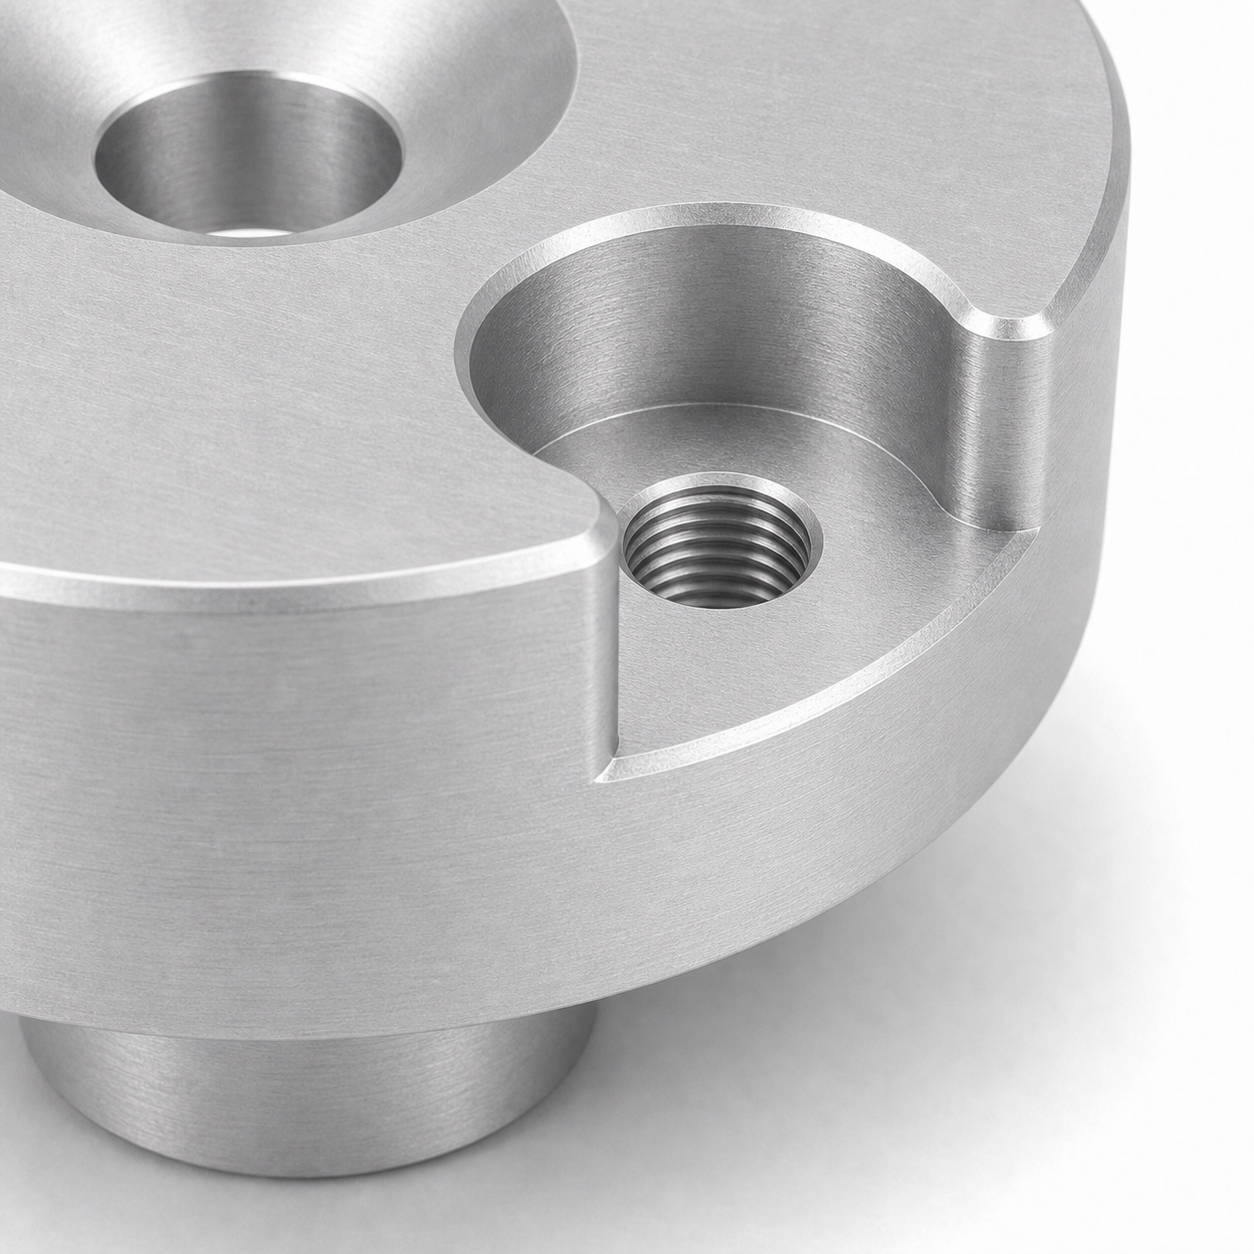
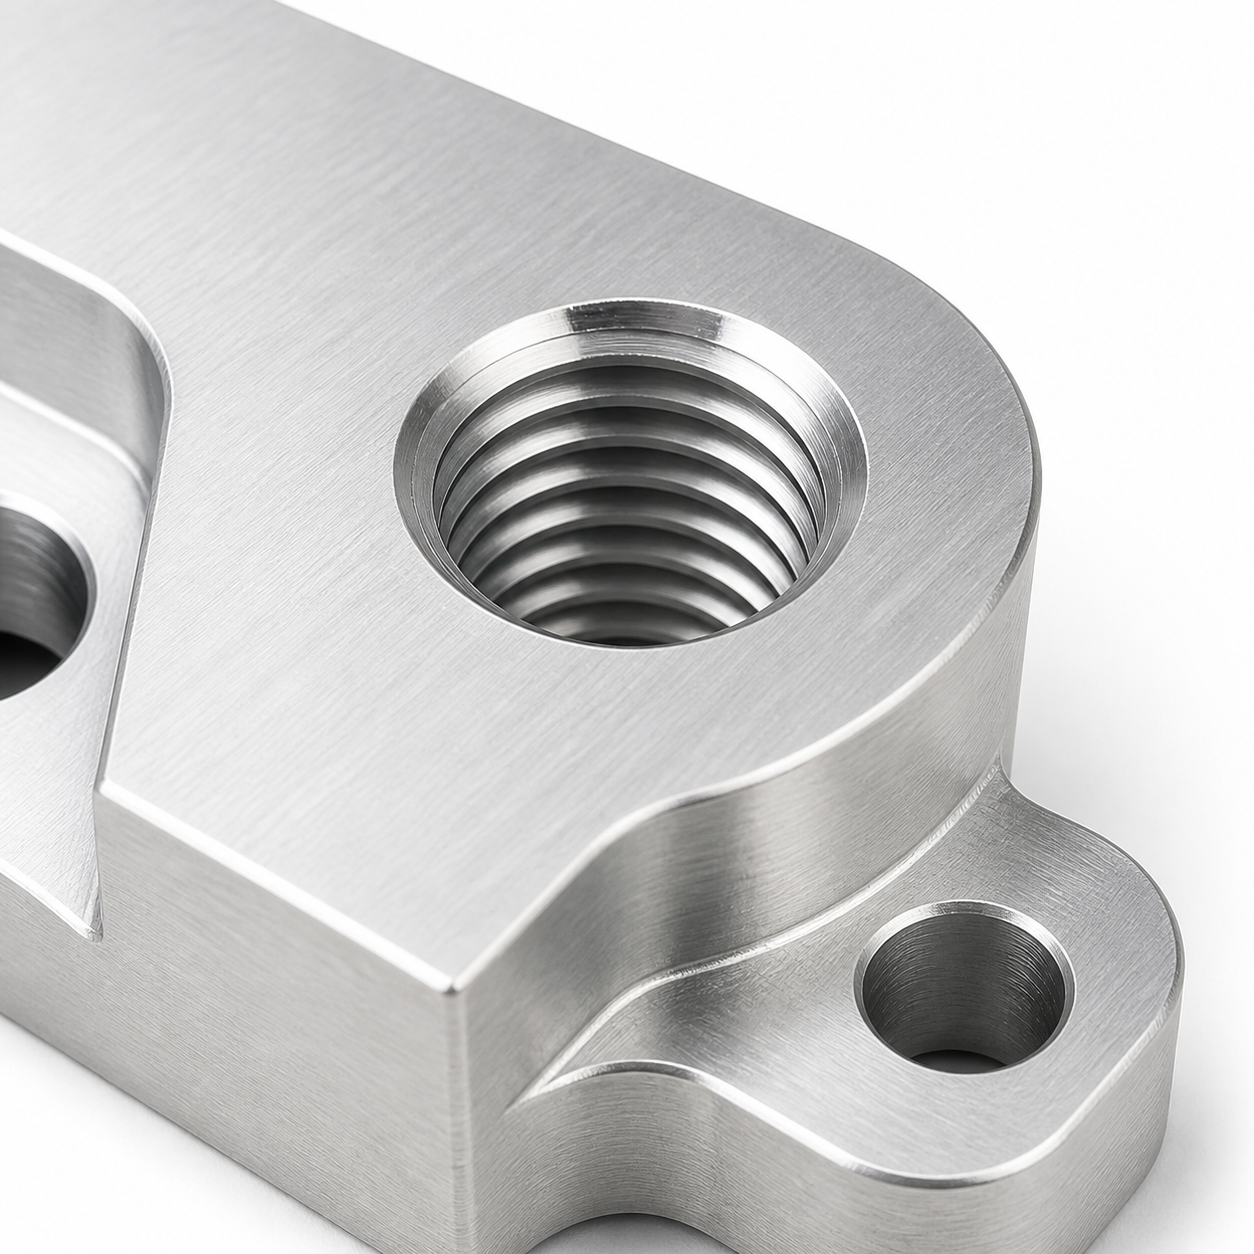
Fix configurator image previews and feature assets

diff --git a/Maliev.Intranet.Tests/Client/Components/PartConfigSidebarRenderTests.cs b/Maliev.Intranet.Tests/Client/Components/PartConfigSidebarRenderTests.cs
@@ -242,6 +242,7 @@ public sealed class PartConfigSidebarRenderTests : BunitContext, IAsyncLifetime
         Assert.Contains(".pcs-option-image-frame:hover .pcs-image-preview-popout", sidebarSource, StringComparison.Ordinal);
         Assert.Contains(".pcs-option-image-frame:focus-within .pcs-image-preview-popout", sidebarSource, StringComparison.Ordinal);
         Assert.Contains("width: min(220px, 64vw);", sidebarSource, StringComparison.Ordinal);
+        Assert.Contains("overflow: visible;", sidebarSource, StringComparison.Ordinal);
     }
 
     [Fact]
@@ -256,8 +257,43 @@ public sealed class PartConfigSidebarRenderTests : BunitContext, IAsyncLifetime
 
         Assert.Contains("grid-template-columns: 66px minmax(0, 1fr) 18px;", source, StringComparison.Ordinal);
         Assert.Contains(".pcs-mat-swatch,\n            .pcs-fin-swatch,\n            .pcs-choice-swatch,\n            .pcs-color-chip {\n                width: 58px;\n                height: 58px;", source, StringComparison.Ordinal);
-        Assert.Contains("overflow: hidden;", source, StringComparison.Ordinal);
+        Assert.Contains("overflow: visible;", source, StringComparison.Ordinal);
         Assert.Contains("object-fit: contain;", source, StringComparison.Ordinal);
+    }
+
+    [Fact]
+    public void SurfaceFinishCards_ReservePriceAndCheckmarkColumns()
+    {
+        var source = ReadRepoFile(
+                "Maliev.Intranet.Client",
+                "Components",
+                "Project",
+                "PartConfigSidebar.razor")
+            .ReplaceLineEndings("\n");
+
+        Assert.Contains(".pcs-fin-card {\n                grid-template-columns: 66px minmax(0, 1fr) max-content 18px;", source, StringComparison.Ordinal);
+        Assert.Contains(".pcs-fin-price {\n                grid-column: 3;", source, StringComparison.Ordinal);
+        Assert.Contains("white-space: nowrap;", source, StringComparison.Ordinal);
+        Assert.Contains(".pcs-fin-card .pcs-card-check {\n                grid-column: 4;", source, StringComparison.Ordinal);
+    }
+
+    [Fact]
+    public void ThreadInsertFeatureImage_IsDistinctFromGenericSteelInsertImage()
+    {
+        var threadInsertPath = FindRepoFile(
+            "Maliev.Intranet.Client",
+            "wwwroot",
+            "images",
+            "materials",
+            "feature-thread-inserts-part.png");
+        var genericInsertPath = FindRepoFile(
+            "Maliev.Intranet.Client",
+            "wwwroot",
+            "images",
+            "materials",
+            "feature-steel-inserts-part.png");
+
+        Assert.NotEqual(File.ReadAllBytes(genericInsertPath), File.ReadAllBytes(threadInsertPath));
     }
 
     [Fact]
